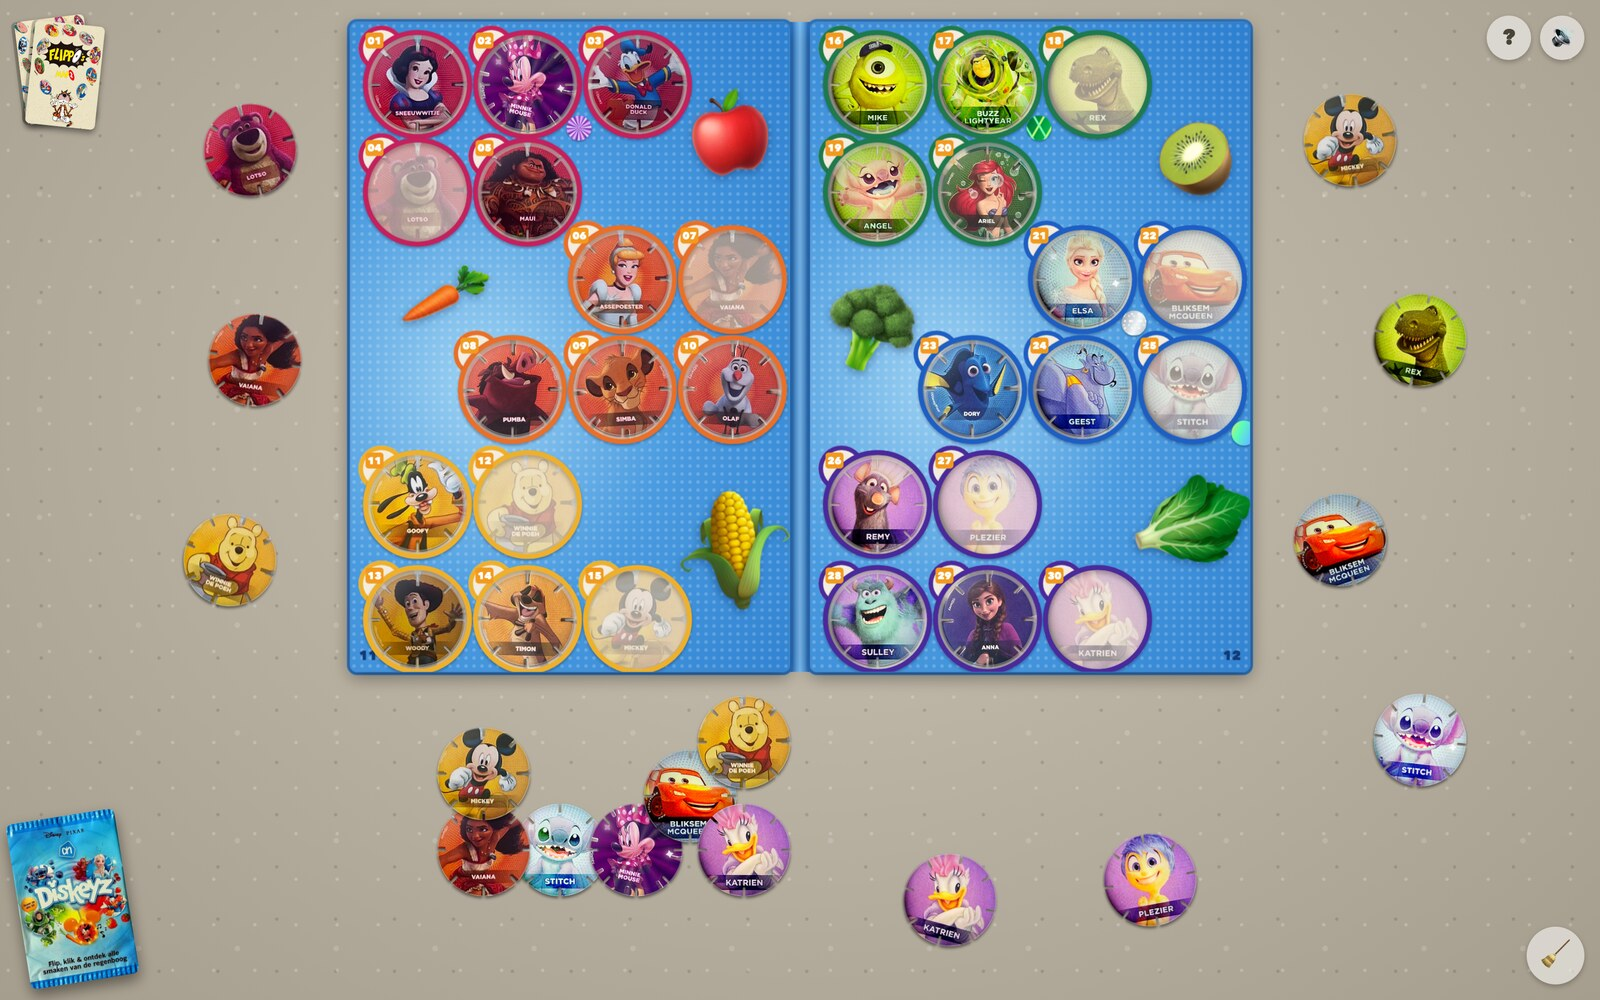
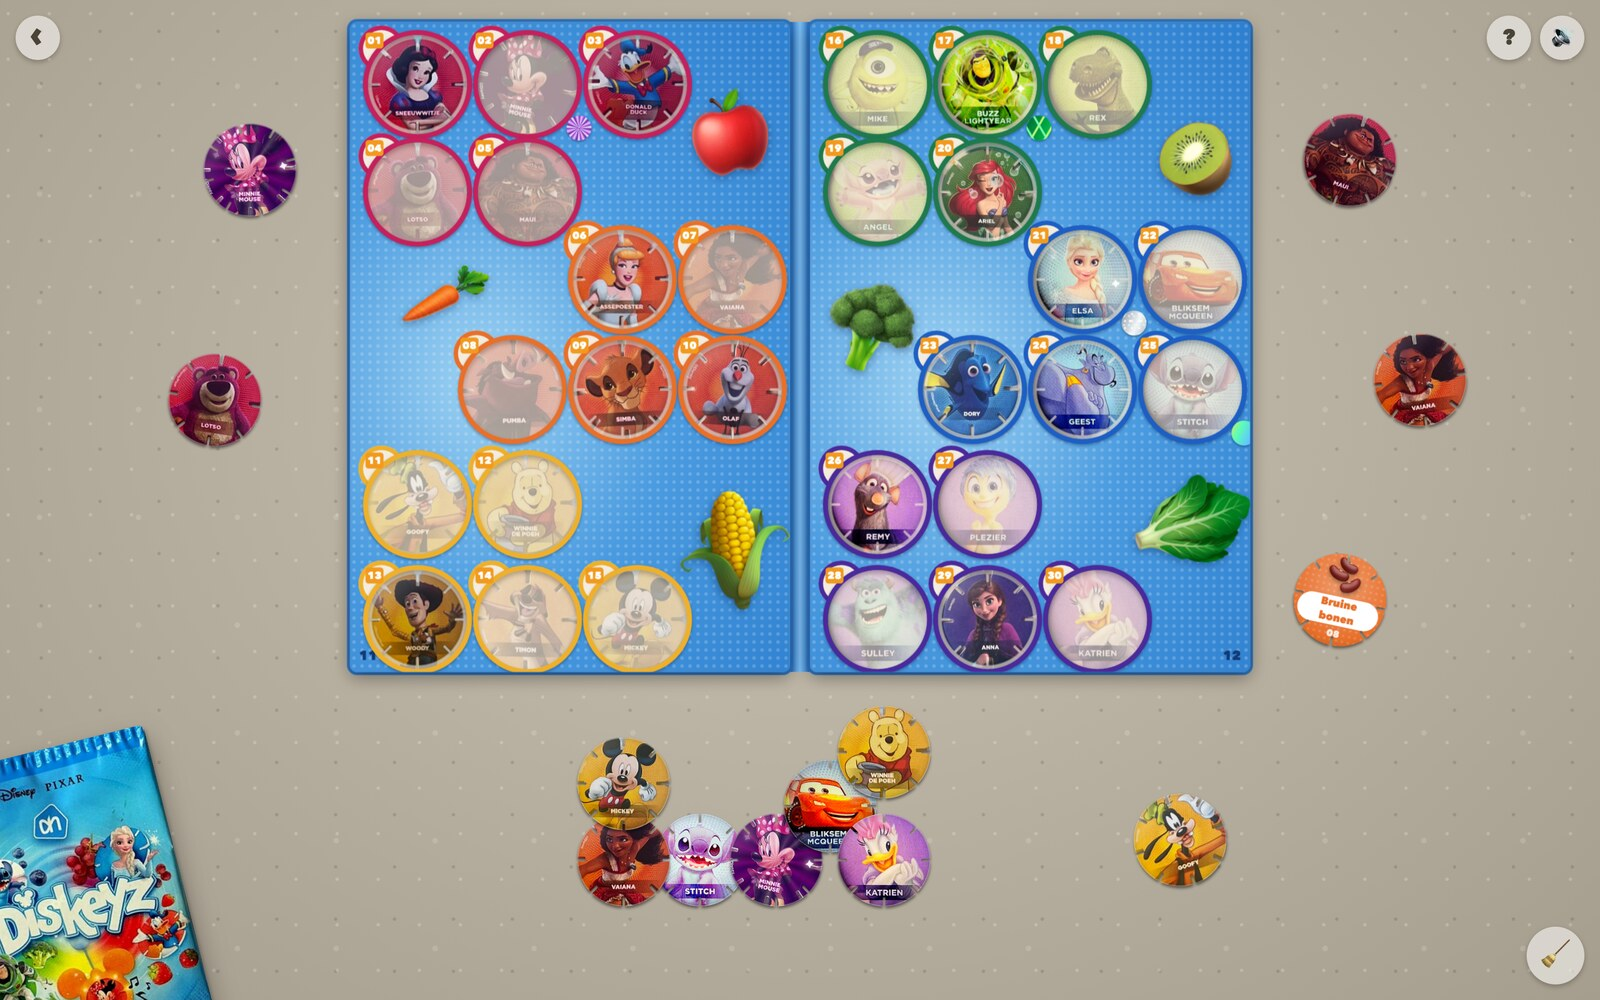
README bijgewerkt met nieuwe screenshots van de huidige app

diff --git a/README.md b/README.md
@@ -6,11 +6,11 @@ Een speeltafel vol flippo's in je browser. Pak een map, maak zakjes open, verzam
 
 **Spelen: [flippos.bramdehart.nl](https://flippos.bramdehart.nl)** · Broncode: [github.com/bramdehart/flippos](https://github.com/bramdehart/flippos)
 
-![Drie mappen op tafel om uit te kiezen: Flippo's map 1, Flippo's map 2 en AH Diskeyz](docs/keuze.jpg)
+![De mappen liggen over elkaar op tafel; de gekozen map ligt bovenop](docs/keuze.jpg)
 
 ## Vier mappen
 
-Je begint bij de tafel met vier mappen. Tik er een aan en hij vliegt naar het midden en slaat open. Elke map bewaart zijn eigen verzameling.
+Je begint bij de tafel met vier mappen, die half over elkaar liggen. Schuif erdoorheen door te vegen, te scrollen of met de pijltjestoetsen; de map in het midden ligt bovenop. Tik hem aan en hij vliegt naar zijn plek op tafel en slaat open, waarna je losse flippo's stuiterend op tafel vallen. Elke map bewaart zijn eigen verzameling.
 
 - **Flippo's map 1 (1995)** – de originele flippo's uit de zakken Smiths-chips, nummer 1 tot en met 250.
 - **Flippo's map 2 (1996)** – het vervolg, nummer 251 tot en met 545.
@@ -19,25 +19,25 @@ Je begint bij de tafel met vier mappen. Tik er een aan en hij vliegt naar het mi
 
 ## Geen knoppen
 
-Alles doe je met wat er op tafel ligt. De eerste keer krijg je een korte uitleg; het vraagteken rechtsboven laat hem opnieuw zien.
+Alles doe je met wat er op tafel ligt. Linksonder ligt de zak waar nieuwe flippo's uit komen, rechtsonder een bezem om de tafel leeg te vegen, en linksboven een pijltje terug naar de mappen. De eerste keer krijg je een korte uitleg; het vraagteken rechtsboven laat hem opnieuw zien.
 
 ![De uitleg die je de eerste keer ziet](docs/uitleg.jpg)
 
 ## De originele flippo's
 
-De flippo-mappen zijn ringbanden met insteekbladen: twintig vakjes per blad, met achter elk vakje alvast het plaatje dat erin hoort. Laat je een flippo los boven zijn vakje, dan schuift hij van boven in het hoesje.
+De flippo-mappen zijn ringbanden met insteekbladen: twintig vakjes per blad, met achter elk vakje alvast het plaatje dat erin hoort. Laat je een flippo los boven zijn vakje, dan schuift hij van boven in het hoesje. Stop je hem er met de achterkant boven in, dan blijft hij zo zitten tot je erop tikt.
 
 ![Een opengeslagen flippo-map met insteekbladen](docs/flippomap.jpg)
 
 ### Bladeren
 
-Een bladzijde sla je zelf om: pak hem vast en sleep hem naar de andere kant. Het blad buigt mee en ritselt. Pak je een flippo vast, dan slaat de map vanzelf open op het goede blad.
+Een bladzijde sla je zelf om: pak hem vast en sleep hem naar de andere kant, of tik op het omgekrulde hoekje. Het blad draait om met de flippo's erin en ritselt. Laat je te vroeg los, dan valt het terug. Pak je een flippo vast, dan slaat de map vanzelf open op het goede blad.
 
 ![Een bladzijde halverwege het omslaan](docs/omslaan.jpg)
 
 ### Zak chips
 
-Je begint met een lege map. Linksonder ligt een zak chips: tik erop, knijp in het midden en de onderkant scheurt open. De chips vallen eruit, samen met vijf flippo's, en meestal zit er een nieuwe tussen.
+Je begint met een lege map. Linksonder ligt een zak chips: tik erop en hij schuift naar het midden. Knijp in het midden en de onderkant scheurt open. De chips vallen eruit, samen met vijf flippo's, waarvan er af en toe een op zijn kop landt. Meestal zit er een nieuwe tussen. Tik ernaast als je de zak toch dicht wilt laten.
 
 ![Een zak Smiths-chips die net is opengepopt](docs/chips.jpg)
 
@@ -63,25 +63,29 @@ Ook hier begin je met een lege map. Diskeyz komen uit een zakje dat je aan de bo
 
 ## Pokémon-munten
 
-Een kleinere, rode map met twaalf munten per bladzijde. De munten zijn een slag groter dan flippo's, hebben een bolle glans en een zilveren achterkant die flink glimt als je ze omdraait. Ze komen uit een zakje van drie.
+Een kleinere, rode map met twaalf munten per bladzijde. De munten zijn een slag groter dan flippo's en hebben een bolle glans. Ze komen uit het Super de Boer-zakje, drie per keer, en vallen geregeld op hun kop.
 
 ![De Pokémon-muntenmap met munten op tafel](docs/pokemon.jpg)
 
+De achterkant is van zilver en glimt flink. Houd een munt vast om hem groot te bekijken en rond te draaien.
+
+![De zilveren achterkant van een Pokémon-munt](docs/munt.jpg)
+
 ## De map dichtdoen en omdraaien
 
-Sleep op de eerste bladzijde het linkerblad naar rechts en de kaft slaat dicht. Je verzameling blijft veilig binnenin zitten. De dichte map sleep je weer open, of je sleept de andere kant op om hem om te draaien.
+Sleep op de eerste bladzijde het linkerblad naar rechts en de kaft slaat dicht, met alles wat erin zit. De dichte map heeft dikte, zoals een echte. Sleep hem weer open, of sleep de andere kant op om hem om te draaien.
 
 ![Een dichte flippo-map die omdraait](docs/kaft.jpg)
 
 ## Ook op je telefoon
 
-Op een telefoon zie je één bladzijde tegelijk, zodat alles groot genoeg blijft voor je vingers. Met twee vingers zoom je in op de tafel.
+Op een telefoon zie je één bladzijde tegelijk, zodat alles groot genoeg blijft voor je vingers. Mikken hoeft niet: laat een flippo ergens op de map los en hij schuift in zijn eigen vakje. Met twee vingers zoom je in op de tafel. Via het deelmenu van je browser zet je de site als app op je beginscherm.
 
 <img src="docs/mobiel.jpg" alt="Een flippo-map op een telefoon, met één bladzijde in beeld" width="300">
 
 ## De reclame
 
-Er is ook een reclamespot van 80 seconden in de stijl van een speelgoedreclame uit de jaren negentig, helemaal in JavaScript: [flippos.bramdehart.nl/commercial](https://flippos.bramdehart.nl/commercial/). Zet je geluid aan.
+Er is ook een reclamespot van 80 seconden in de stijl van een speelgoedreclame uit de jaren negentig, helemaal in JavaScript: [flippos.bramdehart.nl/commercial](https://flippos.bramdehart.nl/commercial/). Zet je geluid aan. Hij staat ook als video in de repo: [flippos-reclame.mp4](commercial/flippos-reclame.mp4).
 
 ## Alles wat je kunt doen
 
@@ -93,11 +97,13 @@ Er is ook een reclamespot van 80 seconden in de stijl van een speelgoedreclame u
 | Twee flippo's met gleufjes tegen elkaar slepen | Ze klikken vast |
 | Dubbeltikken op een flippo | Losmaken uit een bouwwerk |
 | Scrollen boven een flippo | Flippo of bouwwerk draaien |
-| Een bladzijde opzij slepen | Bladzijde omslaan |
+| Een bladzijde opzij slepen, of op het hoekje tikken | Bladzijde omslaan |
 | De kaft opzij slepen | Map dichtslaan, openslaan of omdraaien |
-| Tikken op het zakje of de zak chips | Nieuwe flippo's openmaken |
+| Tikken op het zakje of de zak chips | Nieuwe flippo's openmaken; ernaast tikken legt hem terug |
 | Tikken op het pijltje linksboven | Terug naar het overzicht met de mappen |
 | Twee keer tikken op de bezem | Alle losse flippo's van tafel vegen; de map blijft |
 | Knijpen, of ctrl + scrollen | In- en uitzoomen |
+| Pijltjestoetsen | Bladeren, of door de mappen schuiven |
+| Escape | Uitleg, zak of grote weergave sluiten |
 
 Je spel wordt vanzelf bewaard in je browser.
